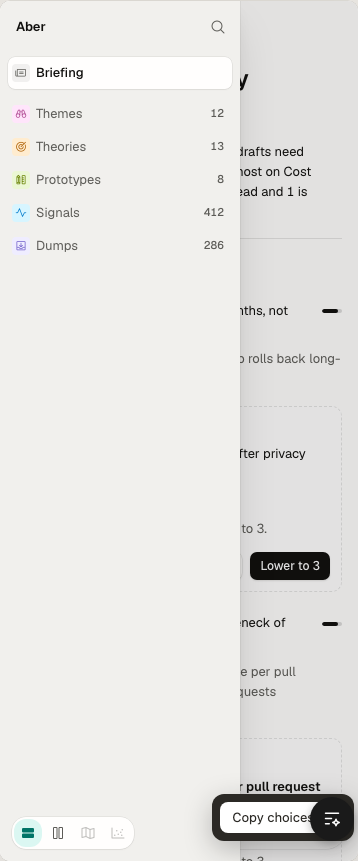
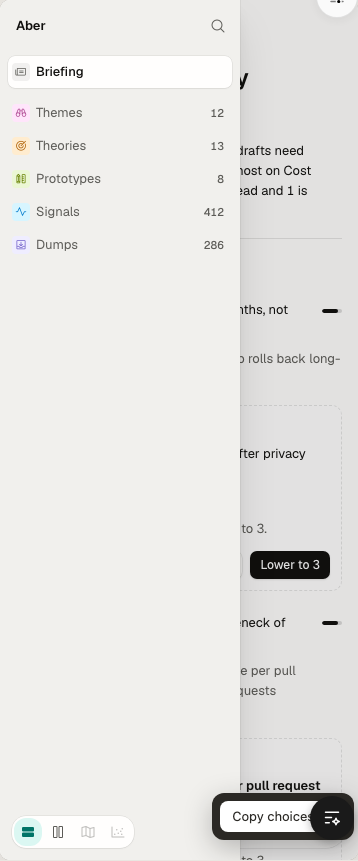
Grammar 08: main-area inset
Full views filling the main area pad 48 inline with an equal top; an empty top bar collapses.
Dial: Main-area inset (24-72).

diff --git a/design/grammar/08-briefing/index.html b/design/grammar/08-briefing/index.html
@@ -10,6 +10,7 @@
 <link rel="stylesheet" href="https://cdn.jsdelivr.net/npm/@phosphor-icons/web@2.1.1/src/regular/style.css">
 <link rel="stylesheet" href="https://cdn.jsdelivr.net/npm/@phosphor-icons/web@2.1.1/src/fill/style.css">
 <link rel="stylesheet" href="../../explorations/_shell/jig.css">
+<link rel="stylesheet" href="https://cdn.jsdelivr.net/npm/dialkit@2.1.0/dist/vanilla/styles.css">
 <link rel="stylesheet" href="../_shared/tokens.css">
 <link rel="stylesheet" href="../_shared/stage.css">
 <link rel="stylesheet" href="../_shared/spacing.css">
@@ -27,6 +28,8 @@
 <script src="data.js" defer></script>
 <script src="briefing.js" defer></script>
 <script src="page.js" defer></script>
+<script src="https://cdn.jsdelivr.net/npm/dialkit@2.1.0/dist/vanilla/browser.global.js" defer></script>
+<script src="main-dial.js" defer></script>
 <script type="module" src="../_shared/agentation.js" data-app-name="Grammar 08: Briefing"></script>
 </head>
 <body class="jig" data-jig="grammar-08-briefing" data-align="c" data-challenge="c" data-fresh="weight">
@@ -111,7 +114,7 @@
       <button type="button" data-day="clear" aria-pressed="false">Caught up</button>
     </div>
     <button type="button" class="reset" data-reset>Reset</button>
-    <span class="hint">Choices follow the recommended options: by theme, leaves with Undo, seen once shown, verb labels.</span>
+    <span class="hint">The "Main-area inset" dial (top right) tunes the padding live. Choices follow the recommended options: by theme, leaves with Undo, seen once shown, verb labels.</span>
   </div>
   <div class="br8-host" id="hero" data-br='{"day":"busy","h":860}'></div>
 </section>

diff --git a/design/grammar/08-briefing/briefing.css b/design/grammar/08-briefing/briefing.css
@@ -132,3 +132,11 @@
   border-radius: 999px; background: var(--surface); box-shadow: var(--sh-float); color: var(--ink-2); font-size: var(--fs-label); white-space: nowrap; }
 .br8-pill-ph b { font-weight: 500; color: var(--ink); }
 .br8-win.narrow .br8-pill-ph { left: var(--inset-float); justify-content: center; }
+
+/* Main-area inset (proposed role, 4 Nov): a full view that fills the main area (the focus region) pads more than a docked pane.
+   Inline 48, top equal to it (the head starts at the inset, its 32 tile is the visual top edge); the content keeps its 720 measure, left-aligned. Docked panes (Columns, Atlas, Timeline) keep --inset-pane (20 / 24).
+   Applies to Briefing and to object full views opened from it; the "Main-area inset" dial sets --main-inset-inline (24–72). */
+:root { --main-inset-inline: 48px; --main-inset-block: var(--main-inset-inline); }   /* top = sides, so the margins read even once the empty top bar collapses */
+.br8-host .nv:not(.narrow) .nv-main .ob-full { padding: var(--main-inset-block) var(--main-inset-inline) 96px; max-width: calc(720px + var(--main-inset-inline) * 2); }
+/* An empty top bar (Back, verbs, Discard | Accept) collapses: no reserved height. Briefing's is always empty on wide screens */
+.br8-host .ob-full > .ob-top:empty { display: none; }

diff --git a/design/grammar/08-briefing/main-dial.js b/design/grammar/08-briefing/main-dial.js
@@ -1,0 +1,13 @@
+// "Main-area inset" dial: the inset of a full view that fills the main area (Briefing and object full views). Inline 24–72, default 48; the top inset follows it.
+(() => {
+  const start = () => {
+    if (!window.DialKit) return console.warn("Dial Kit did not load");
+    window.DialKit.createDialRoot({ position: "top-right", defaultOpen: false, theme: "light" });
+    let v = 48;
+    const kit = window.DialKit.createDialKit("Main-area inset", { inline: [48, 24, 72, 4], copyValues: { type: "action", label: "Copy values" } }, {
+      onAction: async a => { if (a !== "copyValues") return; const t = `--main-inset-inline: ${v}px; --main-inset-block: ${v}px;`; try { await navigator.clipboard.writeText(t); } catch { console.log(t); } },
+    });
+    kit.subscribe(x => { v = x.inline; document.documentElement.style.setProperty("--main-inset-inline", `${v}px`); });
+  };
+  if (document.readyState === "complete") start(); else addEventListener("load", start);
+})();
